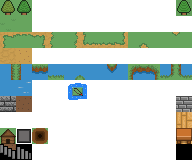
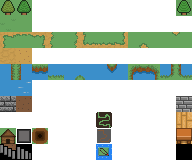
Add and organize tiles

Changed region(s): [[0.5, 0.6875, 0.5938, 1.0], [0.3438, 0.5, 0.4688, 0.625]]

diff --git a/src/engine/levels/Level.java b/src/engine/levels/Level.java
@@ -139,15 +139,15 @@ public class Level {
         if (tiles[x + y * worldWidth] == 0xff5a5a5a)
             return Tile.wall;
         
-        // walkable
+        // Walkable
         if (tiles[x + y * worldWidth] == 0xff67a55e)
             return Tile.grassFlat;
-        if (tiles[x + y * worldWidth] == 0xffd)
+        if (tiles[x + y * worldWidth] == 0xff5d9556)
             return Tile.grassDetail;
         if (tiles[x + y * worldWidth] == 0xff5a5a5a)
             return Tile.Dirt;
 
-        // Solid edges
+        // Solid edge
         if (tiles[x + y * worldWidth] == 0xff4e7e86)
             return Tile.grassWaterLeft;
         if (tiles[x + y * worldWidth] == 0xff387882)

diff --git a/src/engine/graphics/Sprite.java b/src/engine/graphics/Sprite.java
@@ -18,8 +18,8 @@ public class Sprite {
 
     /// *** world tiles last version *** ///
     //Exit
-    public static Sprite hole = new Sprite(16, 16, 2, 8, SpriteSheet.tiles);
     public static Sprite hut = new Sprite(16, 16,  0, 8, SpriteSheet.tiles);
+    public static Sprite hole = new Sprite(16, 16, 2, 8, SpriteSheet.tiles);
     
     // Solid
     public static Sprite tree0 = new Sprite(16, 16, 1, 0, SpriteSheet.tiles);

diff --git a/src/engine/levels/tile/Tile.java b/src/engine/levels/tile/Tile.java
@@ -1,12 +1,9 @@
 package engine.levels.tile;
 
 import engine.graphics.*;
-import engine.levels.tile.tiles.GrassInner;
-import engine.levels.tile.tiles.GrassWaterEdge;
-import engine.levels.tile.tiles.Hut;
-import engine.levels.tile.tiles.Tree;
-import engine.levels.tile.tiles.VoidTile;
-import engine.levels.tile.tiles.Water;
+import engine.levels.tile.tiles.*;
+
+
 
 public class Tile {
     public Sprite sprite;

diff --git a/src/engine/Engine.java b/src/engine/Engine.java
@@ -8,7 +8,6 @@ import game.levels.*;
 import game.ui.DeathScreen;
 import game.ui.LevelFinished;
 import game.ui.MainMenu;
-
 import java.awt.*;
 import java.awt.image.BufferStrategy;
 import javax.swing.JFrame;
